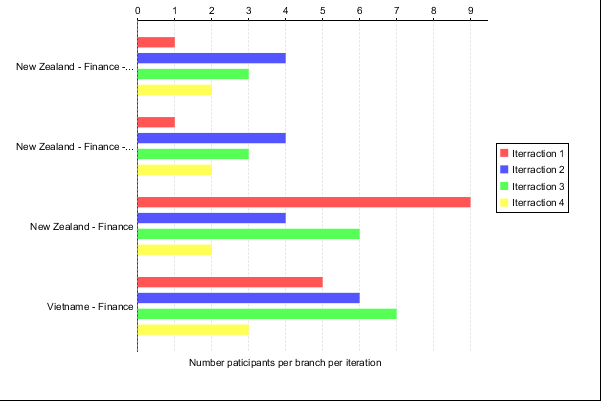
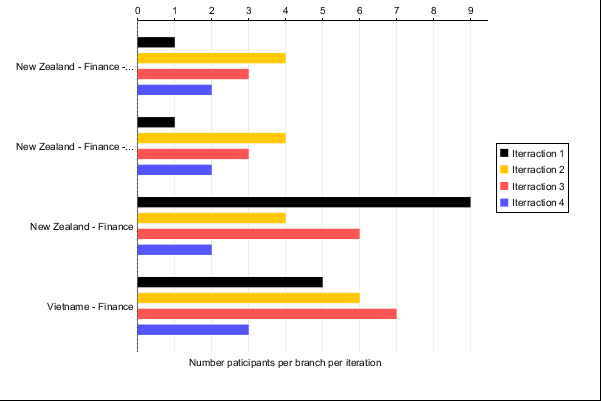
add demo jfree chart

diff --git a/jasper-report/src/main/java/jfree/BarChartExample.java b/jasper-report/src/main/java/jfree/BarChartExample.java
@@ -1,0 +1,46 @@
+package jfree;
+
+import org.jfree.chart.JFreeChart;
+import org.jfree.chart.ChartUtilities;
+import org.jfree.chart.ChartFactory;
+import org.jfree.chart.plot.Plot;
+import org.jfree.chart.plot.PlotOrientation;
+import org.jfree.data.category.DefaultCategoryDataset;
+import org.jfree.data.general.DefaultPieDataset;
+
+import java.awt.image.BufferedImage;
+import java.io.File;
+
+import javax.imageio.ImageIO;
+
+public class BarChartExample {
+	public static void main(String[] args) {
+		// Create a simple pie chart
+		DefaultCategoryDataset categoryDataset = new DefaultCategoryDataset();
+		categoryDataset.setValue(1,"xAxis","yAxis1");
+		categoryDataset.setValue(2,"xAxis1","yAxis2");
+		categoryDataset.setValue(3,"xAxis2","yAxis3");
+		categoryDataset.setValue(4,"xAxis3","yAxis4");
+		JFreeChart chart = ChartFactory.createBarChart(
+				"CSC408 Mark Distribution", // Title
+				"categoryAxisLabel",
+				"valueAxisLabel",
+				categoryDataset, // Dataset
+				PlotOrientation.VERTICAL,
+				true, // Show legend
+				true, // Use tooltips
+				false // Configure chart to generate URLs?
+				);
+		Plot plot=chart.getPlot();
+		plot.setBackgroundAlpha(0);
+		BufferedImage bf= chart.createBufferedImage(420, 420);
+		
+		try {
+			File file = new File("src/jfreechart/BarChartExample.png");
+			ImageIO.write(bf, "PNG", file);
+			System.out.println("save file:"+file.getAbsolutePath());
+		} catch (Exception e) {
+			e.printStackTrace();
+		}
+	}
+}

diff --git a/jasper-report/src/main/java/jfree/PieChartExample.java b/jasper-report/src/main/java/jfree/PieChartExample.java
@@ -1,0 +1,37 @@
+package jfree;
+
+import org.jfree.chart.JFreeChart;
+import org.jfree.chart.ChartUtilities;
+import org.jfree.chart.ChartFactory;
+import org.jfree.data.general.DefaultPieDataset;
+
+import java.awt.image.BufferedImage;
+import java.io.File;
+
+import javax.imageio.ImageIO;
+
+public class PieChartExample {
+	public static void main(String[] args) {
+		// Create a simple pie chart
+		DefaultPieDataset pieDataset = new DefaultPieDataset();
+		pieDataset.setValue("A", new Integer(75));
+		pieDataset.setValue("B", new Integer(10));
+		pieDataset.setValue("C", new Integer(10));
+		pieDataset.setValue("D", new Integer(5));
+		JFreeChart chart = ChartFactory.createPieChart(
+				"CSC408 Mark Distribution", // Title
+				pieDataset, // Dataset
+				true, // Show legend
+				true, // Use tooltips
+				false // Configure chart to generate URLs?
+				);
+		BufferedImage bf= chart.createBufferedImage(420, 420);
+		try {
+			File file = new File("src/jfreechart/PieChartExample.png");
+			System.out.println("sss:"+file.getAbsolutePath());
+			ImageIO.write(bf, "PNG", file);
+		} catch (Exception e) {
+			e.printStackTrace();
+		}
+	}
+}

diff --git a/jasper-report/src/main/java/jasperreport/BarChartCustomizer.java b/jasper-report/src/main/java/jasperreport/BarChartCustomizer.java
@@ -40,8 +40,7 @@ public class BarChartCustomizer implements JRChartCustomizer
 	public void customize(JFreeChart chart, JRChart jasperChart)
 	{
 		BarRenderer renderer = (BarRenderer) chart.getCategoryPlot().getRenderer();
-		plot.getRenderer().setBaseItemLabelsVisible(boolean visible);
-		renderer.setSeriesPaint(0, Color.green);
+		renderer.setSeriesPaint(0, Color.BLACK);
 		renderer.setSeriesPaint(1, Color.orange);
 		renderer.setBaseItemLabelsVisible(true);
 	}
